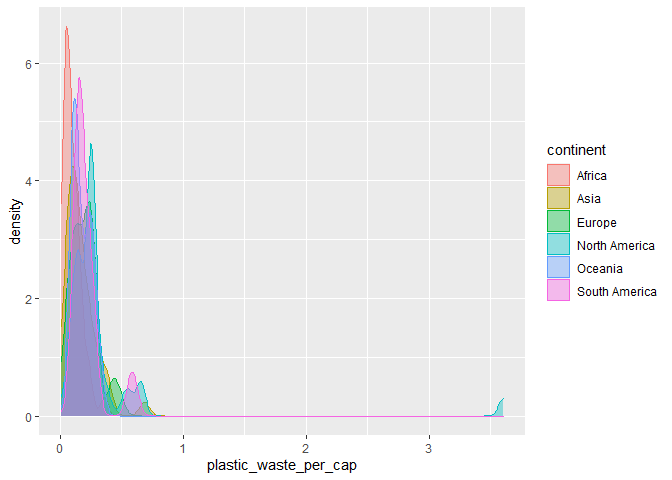
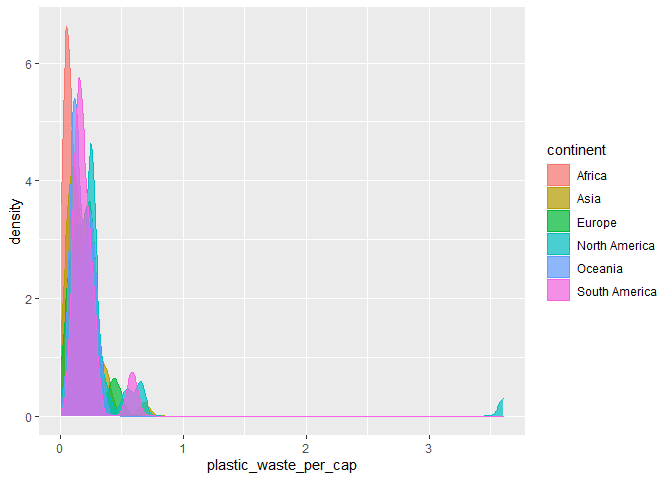
Plastic Waste Lab
Exercises 1, 2 complete

Changed region(s): [[0.0938, 0.0938, 0.2188, 0.875], [0.8125, 0.3438, 0.8438, 0.625], [0.7188, 0.8438, 0.75, 0.875]]

diff --git a/lab-02.md b/lab-02.md
@@ -46,7 +46,7 @@ ggplot(data = plastic_waste,
        mapping = aes(x = plastic_waste_per_cap, 
                      color = continent,
                      fill = continent)) +
-  geom_density(alpha = 0.4)
+  geom_density(alpha = 0.7)
 ```
 
     ## Warning: Removed 51 rows containing non-finite values (stat_density).
@@ -55,9 +55,22 @@ ggplot(data = plastic_waste,
 
 ### Exercise 2
 
+We define color and fill by the mapping aesthetics because we need to
+assign those qualities to specific variables. On the otherhand, alpha
+applies to the entire visual and does not need to be changed based on a
+variable level.
+
 ``` r
-# insert code here
+ggplot(data = plastic_waste, 
+       mapping = aes(x = plastic_waste_per_cap, 
+                     color = continent,
+                     fill = continent)) +
+  geom_density(alpha = 0.3)
 ```
+
+    ## Warning: Removed 51 rows containing non-finite values (stat_density).
+
+![](lab-02_files/figure-gfm/plastic-waste-density-1.png)<!-- -->
 
 ### Exercise 3
 
